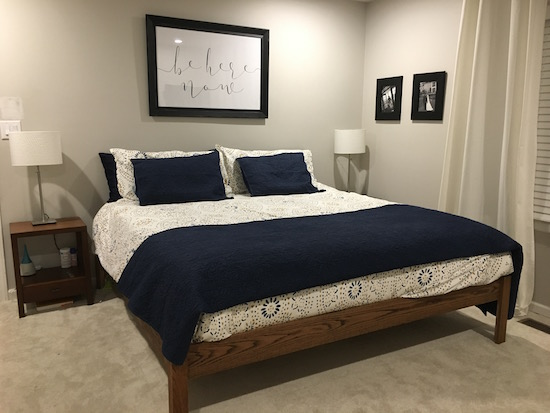
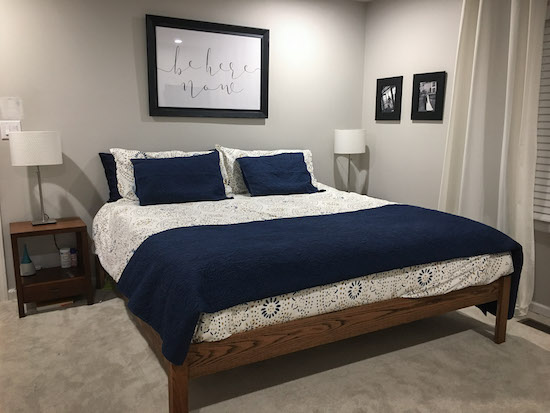
Add Cover Image

diff --git a/_posts/2016-11-29-how-to-build-a-bed-frame.md b/_posts/2016-11-29-how-to-build-a-bed-frame.md
@@ -3,13 +3,13 @@ title: How to Build a Bed Frame
 layout: post
 category : home
 tags : [how-to, diy, home, decor]
-cover-photo: /assets/images/bedframe/Bed.JPG
+cover-photo: /assets/images/bedframe/BedFrameCover.JPG
 ---
+![Finished Bed Frame](/assets/images/bedframe/BedFrameCover.JPG "Finished Bed Frame")
+
 Despite being in our thirties, and married for eight years, my wife and I still slept with our bed on the floor like we did in our off campus college apartment back in 2005. Go Duke Dogs!
 
 Since we have a baby on the way, we decided it was time to grow up and get an adult bed frame. However, when we started looking for beds, we were quickly reminded why we hadn’t taken the plunge earlier: $$$! All the king bed frames with a style we enjoyed were in the $500 - $700 price range. We weren’t excited about making that kind of investment just before having a baby. So, we made a choice that was a no brainer for us: to build it ourselves.
-
-![Finished Bed Frame](/assets/images/bedframe/Bed.JPG "Finished Bed Frame")
 
 I think the results are awesome. What do you think? Let us know in the comments.
 

diff --git a/_posts/2012-09-02-how-to-build-a-floating-headboard.md b/_posts/2012-09-02-how-to-build-a-floating-headboard.md
@@ -68,7 +68,7 @@ Update
 If you loved this post, you might like to read about [how you can build a gorgeous
 Hardwood Bed Frame on the cheap](/home/2016/11/29/how-to-build-a-bed-frame/ "How to Build a Bed Frame")
 
-<a target="blank" href="/home/2016/11/29/how-to-build-a-bed-frame/" title="How to Build a Bed Frame"><img src="/assets/images/bedframe/Bed.JPG" alt="How to build a Bed Frame"/></a>
+<a target="blank" href="/home/2016/11/29/how-to-build-a-bed-frame/" title="How to Build a Bed Frame"><img src="/assets/images/bedframe/BedFrameCover.JPG" alt="How to build a Bed Frame"/></a>
 
 Lots of commenters asked about the specifics of my headboard and stain:
 
